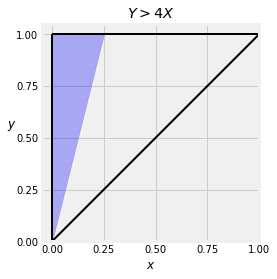
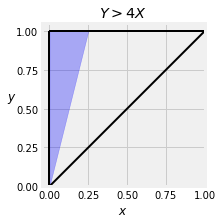
rebuild review set 4

diff --git a/assets/css/notebook-markdown.css b/assets/css/notebook-markdown.css
@@ -83,7 +83,7 @@ pre .nn
 
 .output_png img,p img
 {
-  width:70% !important;
+  width:100% !important;
   max-width: 500px;
   display: block;
   margin-left: auto;

diff --git a/_chapters/Chapter_18/05_Review_Problems_Set_4.md b/_chapters/Chapter_18/05_Review_Problems_Set_4.md
@@ -225,7 +225,7 @@ A random variable $X$ has the beta $(2, 2)$ density. Given $X = x$, the conditio
 
 (c) Find the joint density of $X$ and $Y$. Remember to specify the region where it is positive.
 
-(d) Find $P(X < 0.3, |Y| < 0.3X)$.
+(d) Find $P(X < 0.3, \vert Y \vert < 0.3X)$.
 
 **20.**
 As you know, the Gamma function is defined as an integral. It turns out that its numerical values are hard to calculate exactly except in some cases. Here are two of those cases.
@@ -241,9 +241,9 @@ Let $X$ and $Y$ be i.i.d. with a joint density.
 
 (a) Find $P(Y > X)$.
 
-(b) Find $P(|Y| > |X|)$.
+(b) Find $P(\vert Y \vert > \vert X \vert)$.
 
-(c) If $X$ and $Y$ are i.i.d. standard normal, find $P(Y > |X|)$.
+(c) If $X$ and $Y$ are i.i.d. standard normal, find $P(Y > \vert X \vert)$.
 
 **22.**
 Two points are placed independently and uniformly at random on the unit interval. This creates three segments of the interval. What is the chance that the three segments can form a triangle?
